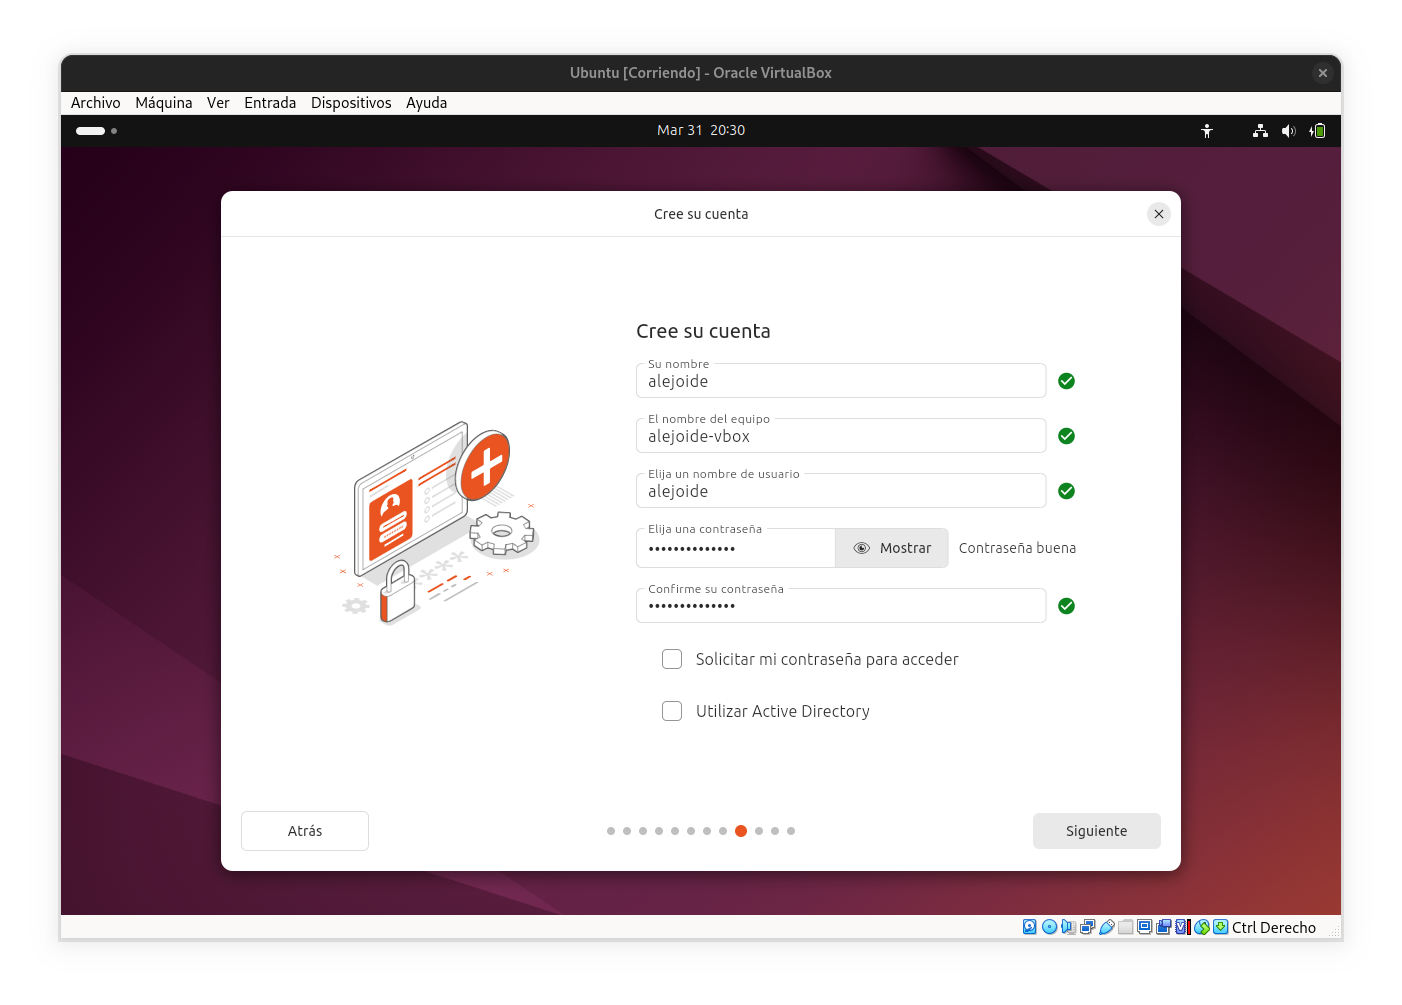
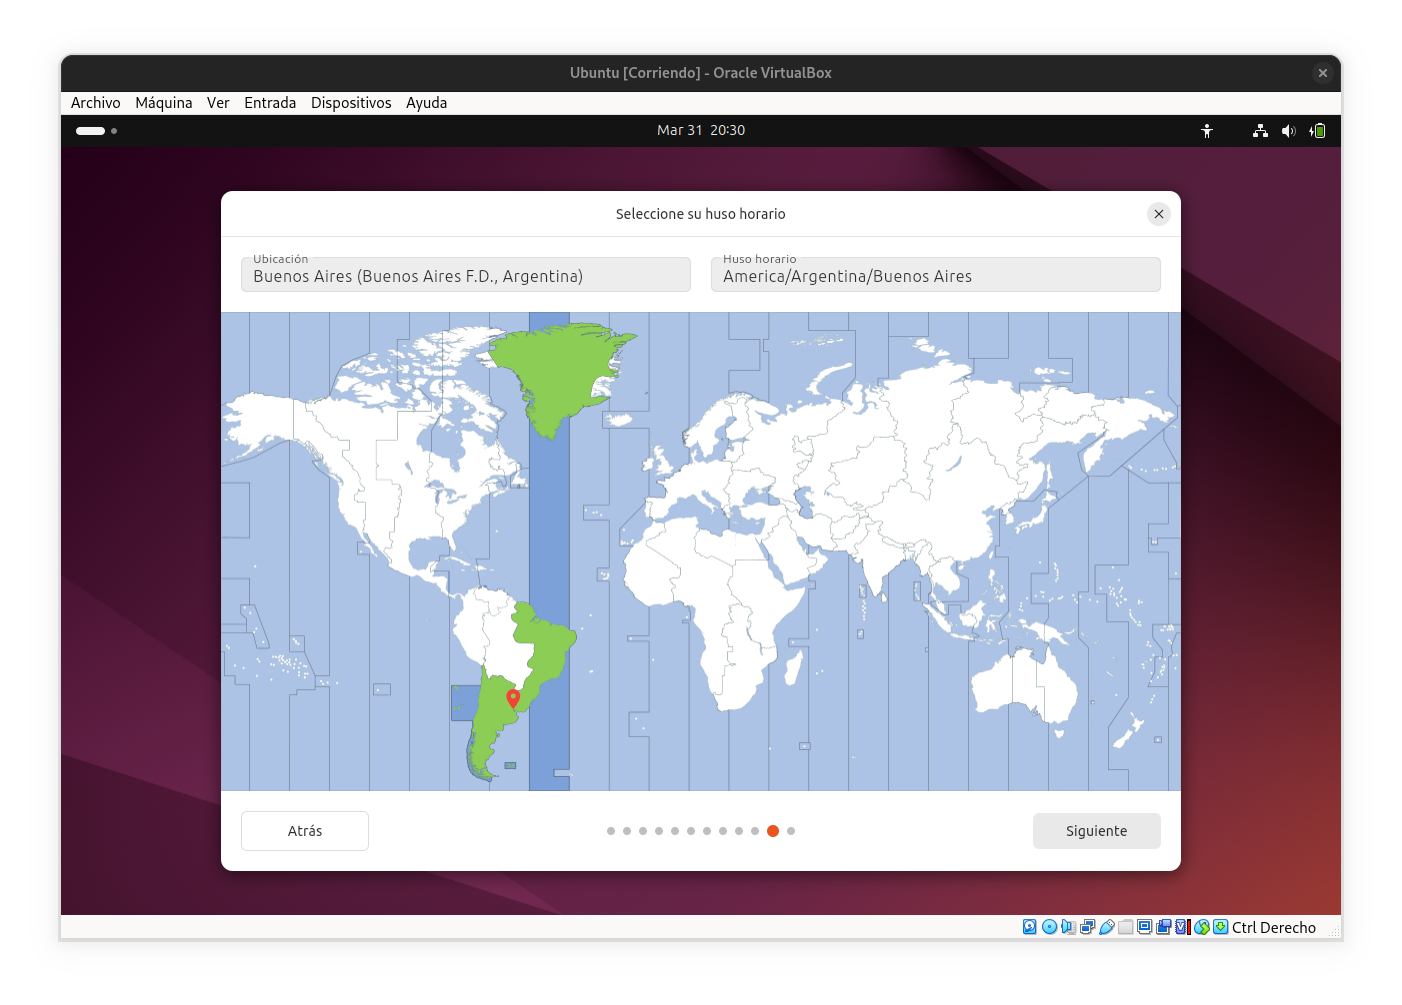
feat: actualizar informe de instalación de virtualbox

diff --git a/sistemas-operativos/informe-instalación-virtualbox.md b/sistemas-operativos/informe-instalación-virtualbox.md
@@ -106,32 +106,6 @@ sudo modprobe -r kvm_intel
 
 Luego de ejecutar el comando, se procedió a iniciar nuevamente la máquina virtual y se pudo iniciar sin problemas.
 
-![Instalación de Ubuntu 1](13.png)
-
-![Instalación de Ubuntu 2](14.png)
-
-![Instalación de Ubuntu 3](15.png)
-
-![Instalación de Ubuntu 4](16.png)
-
-![Instalación de Ubuntu 5](17.png)
-
-![Instalación de Ubuntu 6](18.png)
-
-![Instalación de Ubuntu 7](19.png)
-
-![Instalación de Ubuntu 8](20.png)
-
-![Instalación de Ubuntu 9](21.png)
-
-![Instalación de Ubuntu 10](22.png)
-
-![Instalación de Ubuntu 11](23.png)
-
-![Instalación de Ubuntu 12](24.png)
-
-![Instalación de Ubuntu 13](25.png)
-
 > Fuente https://forums.virtualbox.org/viewtopic.php?t=50517
 
 Luego de probar en otra ocasión habiendo reiniado la máquina, el error apareció nuevamente, se corrigió usando el mismo comando anteriormente mencionado.
@@ -147,3 +121,44 @@ Luego de crear el archivo, se debe reiniciar la máquina para que los cambios te
 > Fuente: https://unix.stackexchange.com/questions/366609/how-do-i-disable-a-kernel-module-persistently
 
 Luego de reiniciar la máquina, se pudo iniciar la máquina virtual sin problemas.
+
+Se procede con la instalación de Ubuntu ya en la máquina virtual:
+
+![Instalación de Ubuntu 1](13.png)
+> Pantalla de GRUB. Seleccionamos Try or install Ubuntu.
+
+![Instalación de Ubuntu 2](14.png)
+> Pantalla de preparación del instalador.
+
+> ![Instalación de Ubuntu 3](15.png)
+> Pantalla de selección de idioma. Seleccionamos "Español".
+
+> ![Instalación de Ubuntu 4](16.png)
+> Pantalla de accesibilidad. En este caso no seleccionamos nada.
+
+> ![Instalación de Ubuntu 5](17.png)
+> Pantalla de disposición del teclado. Seleccionamos en este caso "Inglés (EE.UU.)".
+
+> ![Instalación de Ubuntu 6](18.png)
+> Pantalla de probar e instalar Ubuntu. Seleccionamos la opción de "Instalar Ubuntu".
+
+> ![Instalación de Ubuntu 7](19.png)
+> Pantalla de tipo de instalación. Elegimos la opción "Instalación interactiva" para poder elegir algunos parametros de instalación.
+
+> ![Instalación de Ubuntu 8](20.png)
+> Pantalla de configuración de disco. Elegimos la opción de "Borrar disco e instalar Ubuntu".
+
+> ![Instalación de Ubuntu 9](21.png)
+> Pantalla de usuario local. Establecemos el usuario y la contraseña del sistema.
+
+> ![Instalación de Ubuntu 10](22.png)
+> Pantalla de zona horaria. Seleccionamos la zona horaria de Buenos Aires.
+
+> ![Instalación de Ubuntu 11](23.png)
+> Pantalla de resumen de instalación.
+
+> ![Instalación de Ubuntu 12](24.png)
+> Pantalla de instalación en progreso.
+
+> ![Instalación de Ubuntu 13](25.png)
+> Pantalla de instalación finalizada. Reiniciamos el sistema.
